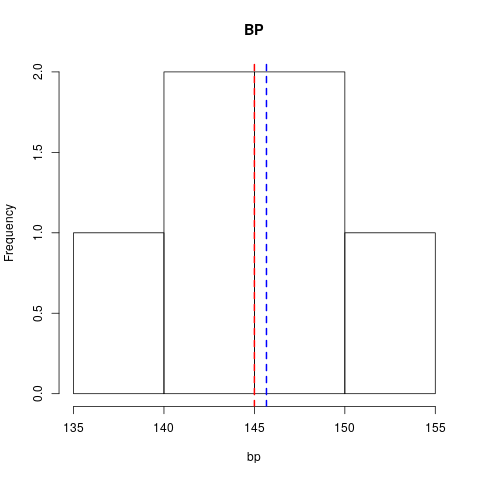
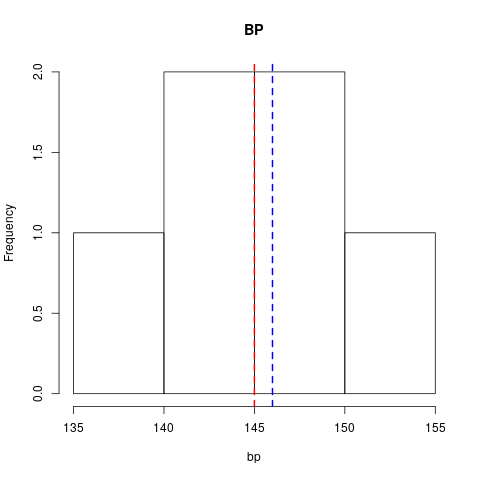
dados modificados (para sum(D) =0 sem arredondamento)

Changed region(s): [[0.5312, 0.125, 0.5938, 0.8438]]

diff --git a/Aulas/BE-Variabilidade-cap3.tex b/Aulas/BE-Variabilidade-cap3.tex
@@ -306,11 +306,11 @@
           $x_3$ &=&139\\
           $x_4$ &=&155\\
           $x_5$ &=&144\\
-          $x_6$ &=&146\\
+          $x_6$ &=&148\\
         \end{tabular}
       \end{column}
       \begin{column}{5cm}<1>
-        $\bar{x} = \frac{874}{6} \approx 146 $
+        $\bar{x} = \frac{876}{6} = 146 $
       \end{column}
     \end{columns}
   \end{exampleblock}
@@ -349,8 +349,8 @@
           $x_1$ &=&144\\
           $x_5$ &=&\alert{144}\\
           $x_2$ &=&\alert{146}\\
-          $x_4$ &=&146\\
-          $x_6$ &=&151\\
+          $x_6$ &=&148\\
+          $x_4$ &=&155\\
         \end{tabular}
       \end{column}
       \begin{column}{5cm}
@@ -386,21 +386,21 @@
           $x_3$ &=&\alert{\sout{139} = 13}\\
           $x_4$ &=&155\\
           $x_5$ &=&144\\
-          $x_6$ &=&146\\
+          $x_6$ &=&148\\
         \end{tabular}
       \end{column}
       \begin{column}{5cm}
         \scriptsize
         O que acontece se você digitar
 
-        \alert{\bf 19} ao invés de \alert{\bf 139}?
+        \alert{\bf 13} ao invés de \alert{\bf 139}?
 
         \bigskip
         \begin{itemize}
           \scriptsize
         \item \sout{$\bar{x} = 146, M_d= 145$}
           \medskip
-        \item {\bf $\bar{x} = 126, M_d = 145$}
+        \item {\bf $\bar{x} = 125, M_d = 145$}
         \end{itemize}
       \end{column}
     \end{columns}
@@ -421,7 +421,7 @@
 
         \scriptsize
         \bigskip
-        $\bar{x} = 145 ; M_d= 145$
+        $\bar{x} = 146 ; M_d= 145$
       \end{center}
 
     \end{column}
@@ -561,7 +561,7 @@
     \begin{center}
     \tiny
 \begin{verbatim}
-144 146 139 155 144 146
+144 146 139 155 144 148
 \end{verbatim}
     \bigskip
     \includegraphics[height=.5\textheight]{Cap3/histograma-bp}
@@ -577,7 +577,7 @@
 \begin{exampleblock}{Exemplo}
     \footnotesize
   \begin{displaymath}
-    \{144, 146, 139, 155, 144, 146\}
+    \{144, 146, 139, 155, 144, 148\}
   \end{displaymath}
 
   \begin{columns}
@@ -596,7 +596,7 @@
   \item $D_3 = 139 - 146 = -7$
   \item $D_4 = 155 - 146 = 9$
   \item $D_5 = 144 - 146 = -2$
-  \item $D_6 = 146 - 146 = 0$
+  \item $D_6 = 148 - 146 = 2$
   \end{enumerate}
 \end{column}
 \end{columns}
@@ -607,13 +607,13 @@
   \begin{block}{Pressão sanguínea (N = 6, média 146)}
     \footnotesize
 \begin{verbatim}
-144 146 139 155 144 146
+144 146 139 155 144 148
 \end{verbatim}
   \end{block}
   \begin{block}{Desvios em relação à média}
     \footnotesize
 \begin{verbatim}
--2  0 -7  9 -2  0
+-2  0 -7  9 -2  2
 \end{verbatim}
   \end{block}
 \end{frame}
@@ -646,7 +646,7 @@
     \sum D = D_1 + D_2 + D_3 + D_4 + D_5 + D_6 =
   \end{displaymath}
   \begin{displaymath}
-    (-2) + 0 + (-7) + 9 + (-2) + 0 = \alert{0}
+    (-2) + 0 + (-7) + 9 + (-2) + 2 = \alert{0}
   \end{displaymath}
   \end{exampleblock}
   \bigskip
@@ -699,7 +699,7 @@
   \begin{exampleblock}{Exemplo}
     \footnotesize
   \begin{displaymath}
-    \{144, 146, 139, 155, 144, 146\}, \bar{x} = 146
+    \{144, 146, 139, 155, 144, 148\}, \bar{x} = 146
   \end{displaymath}
   \begin{columns}
     \begin{column}{5cm}<1->
@@ -710,7 +710,7 @@
       \item $|D_3| = |139 - 146| = 7$
       \item $|D_4| = |155 - 146| = 9$
       \item $|D_5| = |144 - 146| = 2$
-      \item $|D_6| = |146 - 146| = 0$
+      \item $|D_6| = |148 - 146| = 2$
       \end{enumerate}
     \end{column}
     \begin{column}{5cm}
